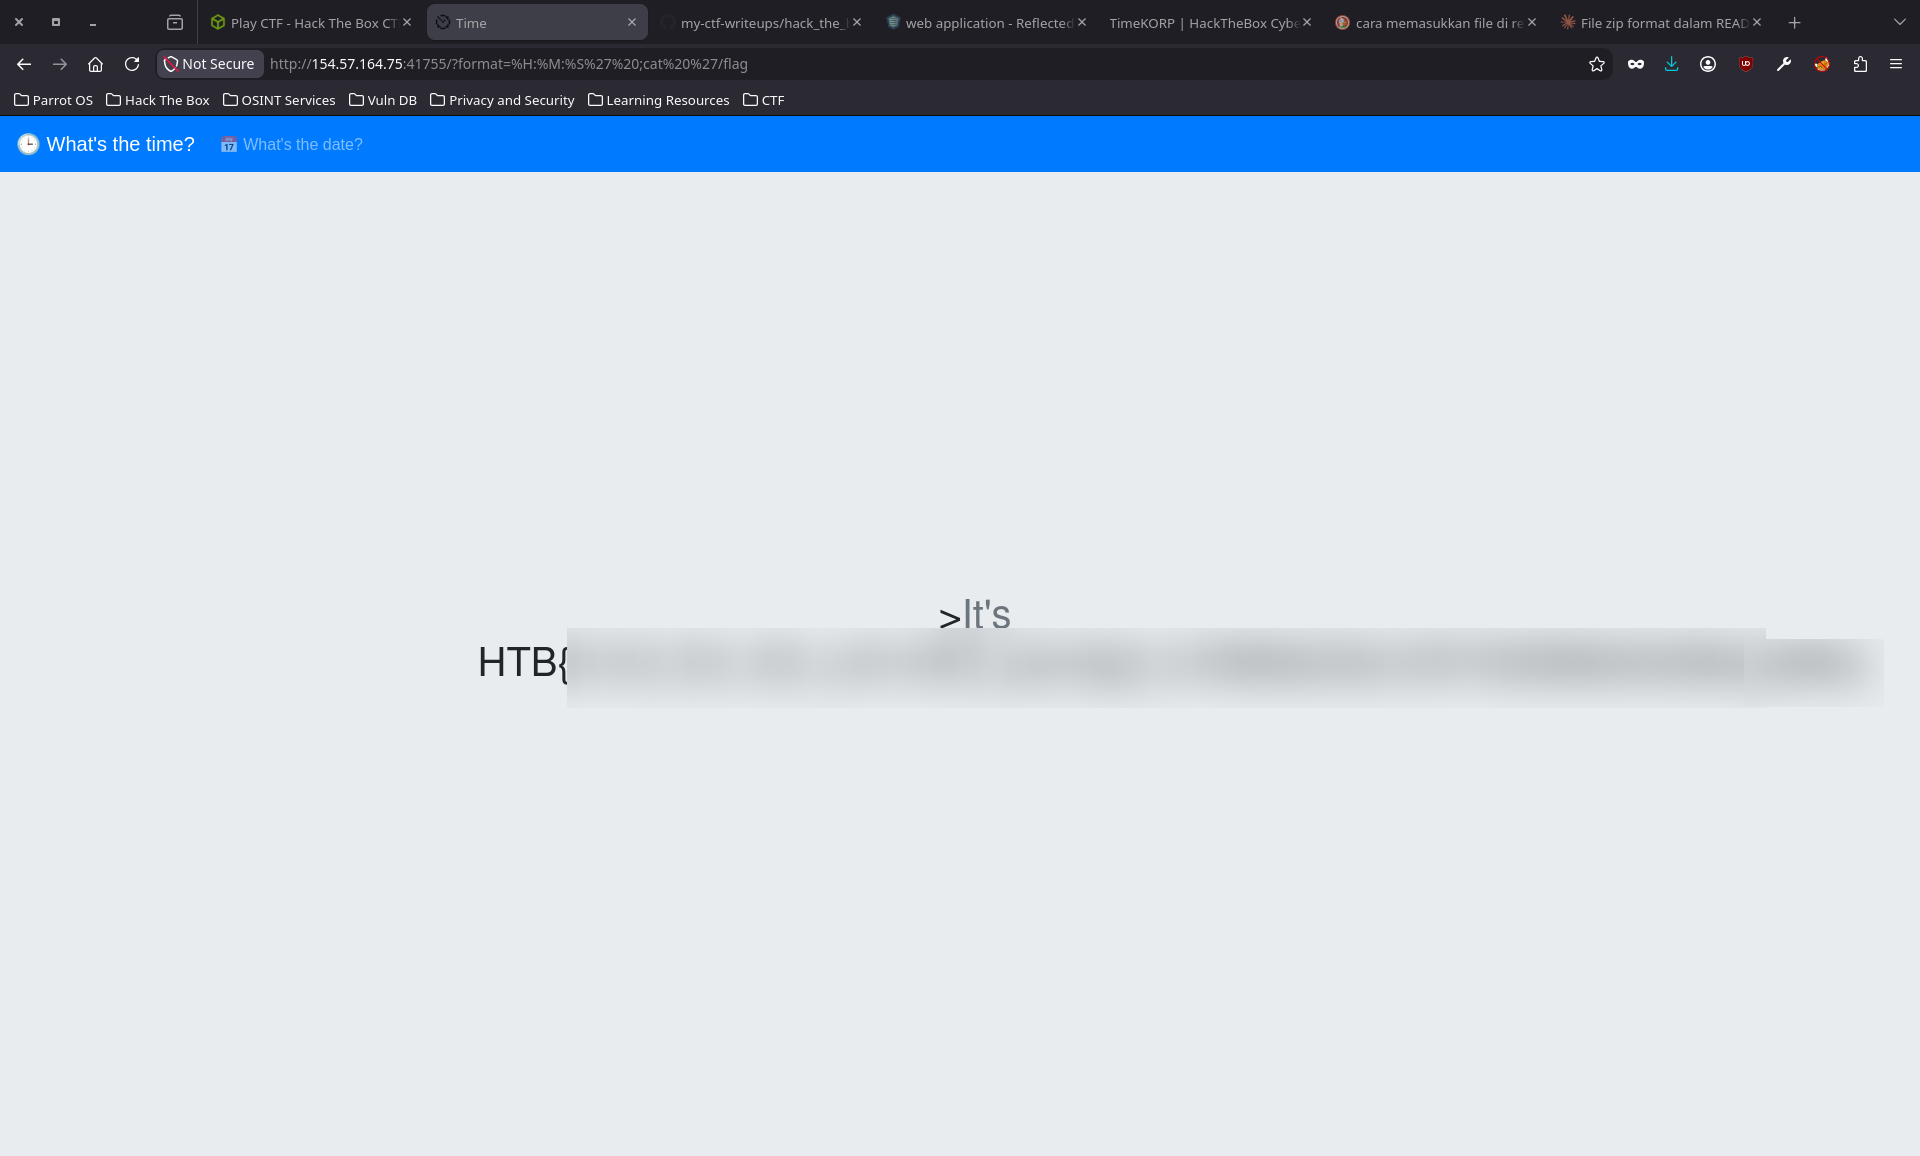
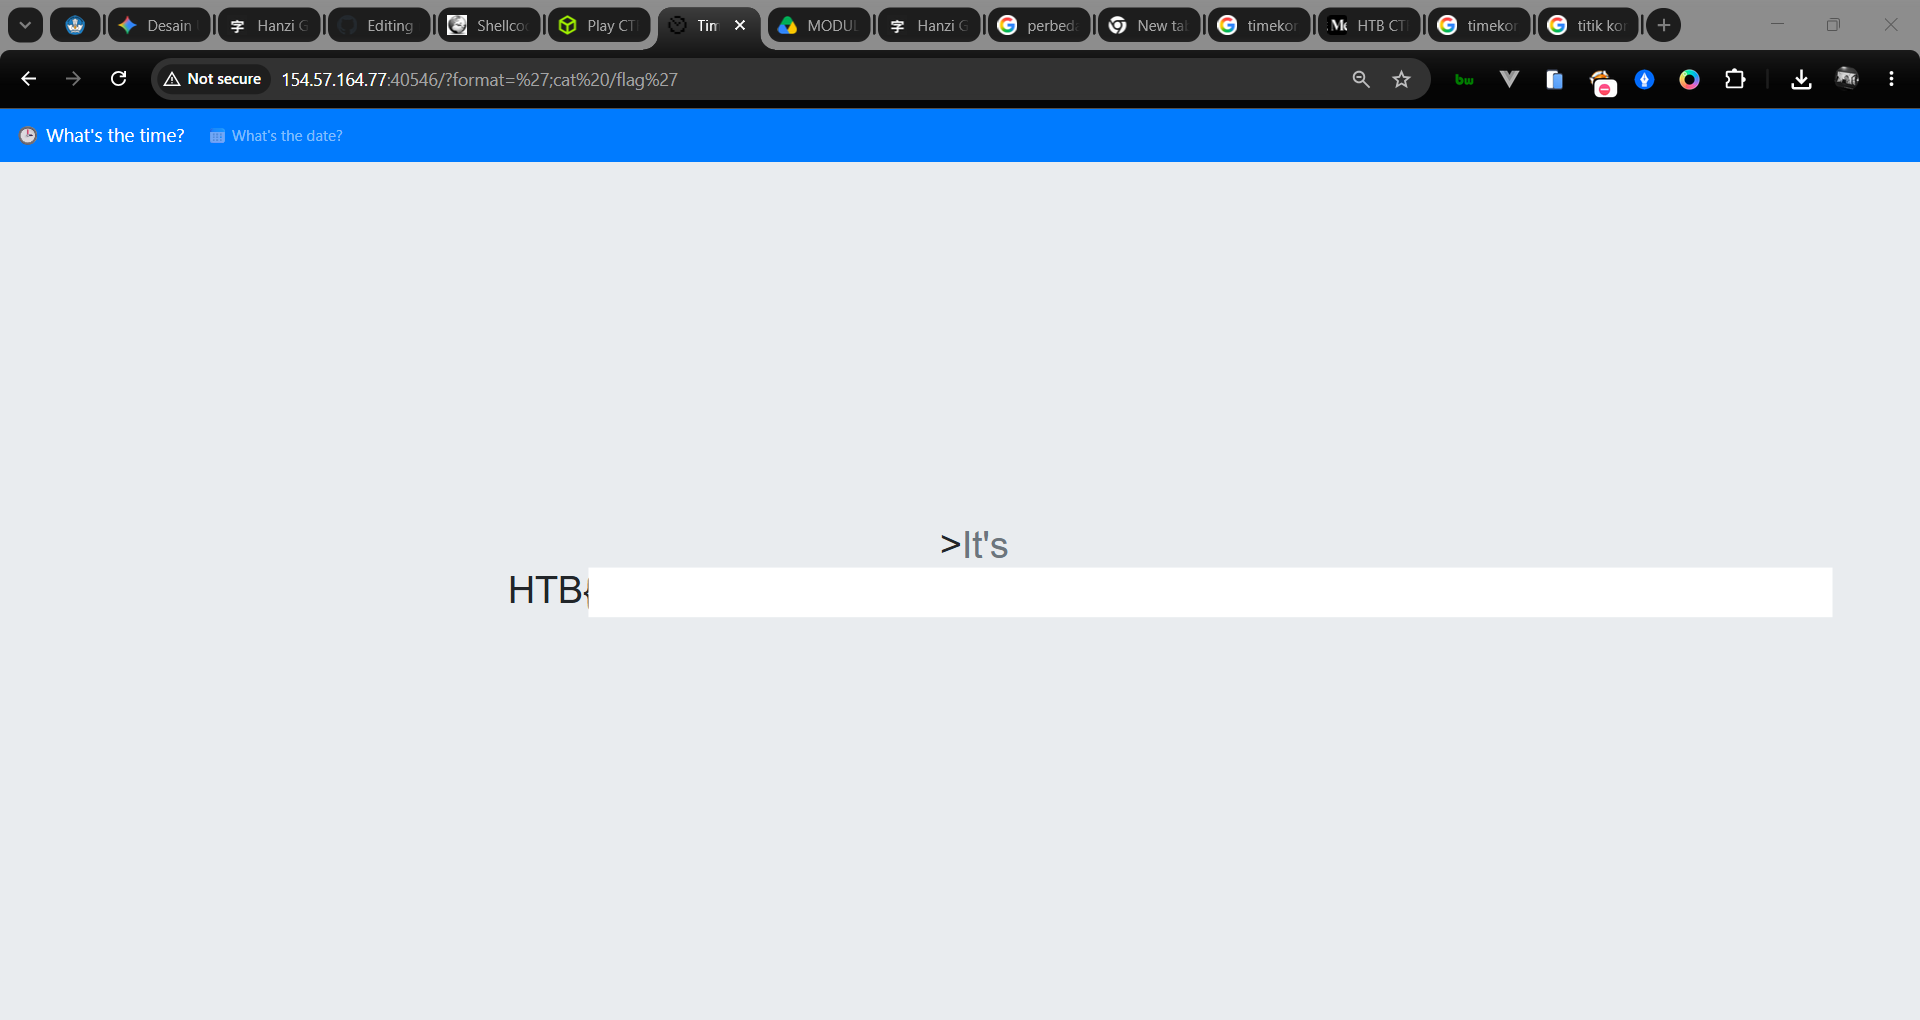
update writeups

Changed region(s): [[0.0, 0.0, 1.0, 0.1824], [0.25, 0.5167, 0.9688, 0.6078]]

diff --git a/hack_the_box/CTF_tryout_2026/web/web_timecorp/README.md b/hack_the_box/CTF_tryout_2026/web/web_timecorp/README.md
@@ -70,4 +70,4 @@ Holaa, kita dapatkan flagnya
 ![flag](./img/flag.png)
 
 ### References
-[https://shell-storm.org/shellcode/index.html](https://shell-storm.org/shellcode/index.html)
+https://portswigger.net/web-security/cross-site-scripting](https://portswigger.net/web-security/cross-site-scripting)
